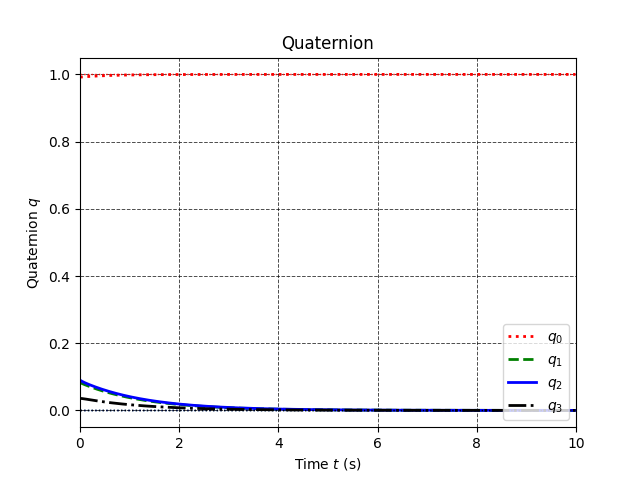
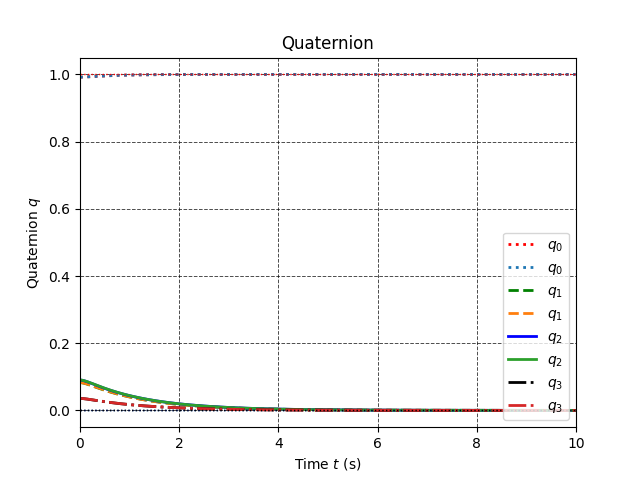
QP solve (8 forces)
Changed brick parameters. Added plots with perfect param values and unknown param values for position.

diff --git a/Brick/main.py b/Brick/main.py
@@ -29,6 +29,7 @@ def system(state, t, Q):
 
     # equation 2
     Q_v = Q[0]
+    # print(Q_v)
     dv = m ** (-1) * Q_v - np.array([0, 0, -g])
 
     # equation 3
@@ -88,6 +89,7 @@ def control(state, t, r_d, v_d, q_d, w_d, params):
 
     a_w = Kp_w @ q_err_axis + Kd_w @ (w_d - w_actual)
     a_v = Kp_v @ (r_d - r_actual) + Kd_v @ (v_d - v_actual)
+    print(a_v)
     Y = regressor(w_actual, a_w, a_v)
 
     Q, F = qp_solve(Y, state, param_vector, u_min, u_max)
@@ -102,7 +104,7 @@ def qp_solve(Y, state, param_vector, u_min, u_max):
     Vm = V()
     alpha = 0.0001
     P = Bm.T @ Bm + alpha * np.eye(8)
-    q = (-2) * param_vector.T @ Y.T @ Bm
+    q = (-1) * param_vector.T @ Y.T @ Bm
 
     I8 = np.eye(8)
     G = np.vstack([I8, -I8])
@@ -113,7 +115,7 @@ def qp_solve(Y, state, param_vector, u_min, u_max):
 
     F = solve_qp(P, q, G, h, A, b)
     # print(F)
-
+    # F = np.linalg.pinv(Bm) @ Y @ param_vector
     Qm = Bm @ F
     return Qm, F
 
@@ -247,12 +249,12 @@ def get_points(rc, q, length, width):
 def simulate_system(state_init, frequency, t_0, t_final):
     dT = 1/frequency
     t = np.arange(t_0, t_final, dT)
-    t_star = np.linspace(0, dT, 10)
+    t_star = np.linspace(0, dT, 5)
     per = 3
     state_prev = state_prev_modified = state_init
     states, states_mod, quats_d, angles = [], [], [], []
     poss_d = []
-    U_pos, U_att = [], []
+    U_pos, U_att, U_pos_mod = [], [], []
     Fs = []
     for i in range(len(t)):
         t_curr = t[i]
@@ -279,6 +281,7 @@ def simulate_system(state_init, frequency, t_0, t_final):
         angles.append(angle.as_euler('xyz'))
 
         U_pos.append(u_real[0])
+        U_pos_mod.append(u_modified[0])
         U_att.append(u_real[1])
         Fs.append(u_real[2])  
 
@@ -288,8 +291,11 @@ def simulate_system(state_init, frequency, t_0, t_final):
     states_mod = np.array(states_mod)
     angles = np.array(angles)
     U_pos = np.array(U_pos)
+    U_pos_mod = np.array(U_pos_mod)
     U_att = np.array(U_att)
     Fs = np.array(Fs)
+    print(U_pos[-1])
+    print(U_pos_mod[-1])
 
     figure()
     text = ['$q_0$', '$q_1$', '$q_2$', '$q_3$']
@@ -297,7 +303,7 @@ def simulate_system(state_init, frequency, t_0, t_final):
     styles = [':', '--', '-', '-.']
     for i in range(4):
         plot(t, states[:,i+6], color=str(colors[i]), linewidth=2.0, linestyle=str(styles[i]), label=str(text[i]))
-        # plot(t, states_mod[:,i+6], linewidth=2.0, linestyle=str(styles[i]), label=str(text[i]))
+        plot(t, states_mod[:,i+6], linewidth=2.0, linestyle=str(styles[i]), label=str(text[i]))
         plot(t, quats_d[:, i], color=str(colors[i]), linewidth=1.0, linestyle=':')
     grid(color='black', linestyle='--', linewidth=0.7, alpha=0.7)
     xlim([t_0, t_final])
@@ -493,11 +499,11 @@ system_params = {'length': length,
                  }
 
 
-m_modified = m_real * 0.8
+m_modified = m_real * 0.9
 I_modified = m_modified * mat
 
-u_min = -35.0
-u_max = 35.0
+u_min = -100.0
+u_max = 100.0
 
 # gains for orientational components: Kp_w, Kd_w
 K1 = np.diag([15, 15, 15])
